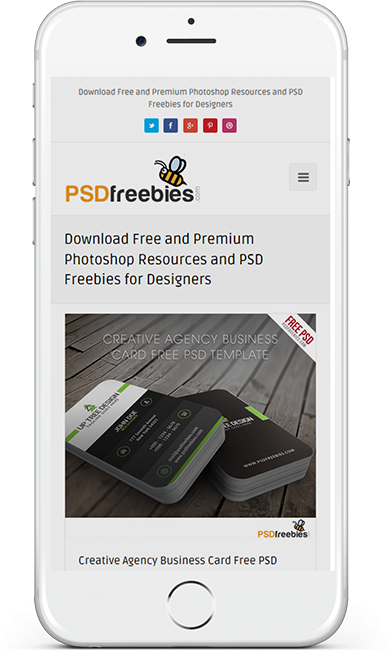
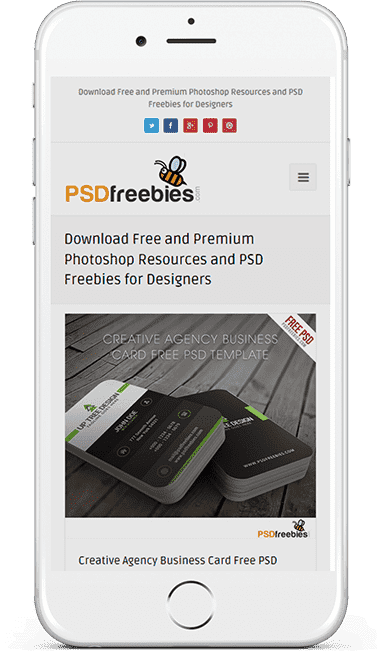
Add retina support

diff --git a/creatives/index.html b/creatives/index.html
@@ -215,7 +215,7 @@
               <div class="col-12 col-md-6 col-xl-3">
                 <div class="blog-posts__item posts-item slide-to-right">
                   <picture>
-                    <source type="image/webp" data-srcset="img/4_-_blog/image_1.webp"/><img class="lazy posts-item__image" src="img/4_-_blog/image_1.lowquality.jpg" data-src="img/4_-_blog/image_1.jpg" alt="blog entry 1"/>
+                    <source type="image/webp" srcset="img/4_-_blog/image_1.lowquality.webp" data-srcset="img/4_-_blog/image_1.webp 1x, img/4_-_blog/image_1@2x.webp 2x, img/4_-_blog/image_1@3x.webp 3x"/><img class="lazy posts-item__image" src="img/4_-_blog/image_1.lowquality.jpg" data-src="img/4_-_blog/image_1.jpg 1x, img/4_-_blog/image_1@2x.jpg 2x, img/4_-_blog/image_1@3x.jpg 3x" alt="blog entry 1"/>
                   </picture>
                   <div class="posts-item__header heading">Fresh Summer Campaign</div>
                   <div class="posts-item__text">
@@ -234,7 +234,7 @@
               <div class="col-12 col-md-6 col-xl-3">
                 <div class="blog-posts__item posts-item slide-to-right">
                   <picture>
-                    <source type="image/webp" data-srcset="img/4_-_blog/image_2.webp"/><img class="lazy posts-item__image" src="img/4_-_blog/image_2.lowquality.jpg" data-src="img/4_-_blog/image_2.jpg" alt="blog entry 2"/>
+                    <source type="image/webp" srcset="img/4_-_blog/image_2.lowquality.webp" data-srcset="img/4_-_blog/image_2.webp 1x, img/4_-_blog/image_2@2x.webp 2x, img/4_-_blog/image_2@3x.webp 3x"/><img class="lazy posts-item__image" src="img/4_-_blog/image_2.lowquality.jpg" data-src="img/4_-_blog/image_2.jpg 1x, img/4_-_blog/image_2@2x.jpg 2x, img/4_-_blog/image_2@3x.jpg 3x" alt="blog entry 2"/>
                   </picture>
                   <div class="posts-item__header heading">Fresh Summer Campaign</div>
                   <div class="posts-item__text">
@@ -253,7 +253,7 @@
               <div class="col-12 col-md-6 col-xl-3">
                 <div class="blog-posts__item posts-item slide-to-left">
                   <picture>
-                    <source type="image/webp" data-srcset="img/4_-_blog/image_3.webp"/><img class="lazy posts-item__image" src="img/4_-_blog/image_3.lowquality.jpg" data-src="img/4_-_blog/image_3.jpg" alt="blog entry 3"/>
+                    <source type="image/webp" srcset="img/4_-_blog/image_3.lowquality.webp" data-srcset="img/4_-_blog/image_3.webp 1x, img/4_-_blog/image_3@2x.webp 2x, img/4_-_blog/image_3@3x.webp 3x"/><img class="lazy posts-item__image" src="img/4_-_blog/image_3.lowquality.jpg" data-src="img/4_-_blog/image_3.jpg 1x, img/4_-_blog/image_3@2x.jpg 2x, img/4_-_blog/image_3@3x.jpg 3x" alt="blog entry 3"/>
                   </picture>
                   <div class="posts-item__header heading">Fresh Summer Campaign</div>
                   <div class="posts-item__text">
@@ -272,7 +272,7 @@
               <div class="col-12 col-md-6 col-xl-3">
                 <div class="blog-posts__item posts-item slide-to-left">
                   <picture>
-                    <source type="image/webp" data-srcset="img/4_-_blog/image_1.webp"/><img class="lazy posts-item__image" src="img/4_-_blog/image_1.lowquality.jpg" data-src="img/4_-_blog/image_1.jpg" alt="blog entry 4"/>
+                    <source type="image/webp" srcset="img/4_-_blog/image_1.lowquality.webp" data-srcset="img/4_-_blog/image_1.webp 1x, img/4_-_blog/image_1@2x.webp 2x, img/4_-_blog/image_1@3x.webp 3x"/><img class="lazy posts-item__image" src="img/4_-_blog/image_1.lowquality.jpg" data-src="img/4_-_blog/image_1.jpg 1x, img/4_-_blog/image_1@2x.jpg 2x, img/4_-_blog/image_1@3x.jpg 3x" alt="blog entry 4"/>
                   </picture>
                   <div class="posts-item__header heading">Fresh Summer Campaign</div>
                   <div class="posts-item__text">
@@ -361,7 +361,7 @@
             </div>
             <div class="col-12 col-lg-6 offset-xl-2 col-xl-5">
               <picture>
-                <source type="image/webp" data-srcset="img/6_-_key/phone.webp"/><img class="lazy key__image slide-to-left" src="img/6_-_key/phone.lowquality.png" data-src="img/6_-_key/phone.png" alt="phone"/>
+                <source type="image/webp" srcset="img/6_-_key/phone.lowquality.webp" data-srcset="img/6_-_key/phone.webp 1x, img/6_-_key/phone@2x.webp 2x, img/6_-_key/phone@3x.webp 3x"/><img class="lazy key__image slide-to-left" src="img/6_-_key/phone.lowquality.png" data-src="img/6_-_key/phone.png 1x, img/6_-_key/phone@2x.png 2x, img/6_-_key/phone@3x.png 3x" alt="phone"/>
               </picture>
             </div>
           </div>
@@ -378,7 +378,7 @@
               <div class="col-12 col-md-6 col-xl-3">
                 <div class="team-persons__card persons-card slide-to-right">
                   <picture>
-                    <source type="image/webp" data-srcset="img/7_-_team/photo_1.webp"/><img class="lazy persons-card__image" src="img/7_-_team/photo_1.lowquality.jpg" data-src="img/7_-_team/photo_1.jpg" alt="team persone 1"/>
+                    <source type="image/webp" srcset="img/7_-_team/photo_1.lowquality.webp" data-srcset="img/7_-_team/photo_1.webp 1x, img/7_-_team/photo_1@2x.webp 2x, img/7_-_team/photo_1@3x.webp 3x"/><img class="lazy persons-card__image" src="img/7_-_team/photo_1.lowquality.jpg" data-src="img/7_-_team/photo_1.jpg 1x, img/7_-_team/photo_1@2x.jpg 2x, img/7_-_team/photo_1@3x.jpg 3x" alt="team persone 1"/>
                   </picture>
                   <div class="persons-card__signature">
                     <div class="persons-card__name heading">JOHN SNOW</div>
@@ -389,7 +389,7 @@
               <div class="col-12 col-md-6 col-xl-3">
                 <div class="team-persons__card persons-card slide-to-right">
                   <picture>
-                    <source type="image/webp" data-srcset="img/7_-_team/photo_2.webp"/><img class="lazy persons-card__image" src="img/7_-_team/photo_2.lowquality.jpg" data-src="img/7_-_team/photo_2.jpg" alt="team persone 2"/>
+                    <source type="image/webp" srcset="img/7_-_team/photo_2.lowquality.webp" data-srcset="img/7_-_team/photo_2.webp 1x, img/7_-_team/photo_2@2x.webp 2x, img/7_-_team/photo_2@3x.webp 3x"/><img class="lazy persons-card__image" src="img/7_-_team/photo_2.lowquality.jpg" data-src="img/7_-_team/photo_2.jpg 1x, img/7_-_team/photo_2@2x.jpg 2x, img/7_-_team/photo_2@3x.jpg 3x" alt="team persone 2"/>
                   </picture>
                   <div class="persons-card__signature">
                     <div class="persons-card__name heading">Mark Castle</div>
@@ -400,7 +400,7 @@
               <div class="col-12 col-md-6 col-xl-3">
                 <div class="team-persons__card persons-card slide-to-left">
                   <picture>
-                    <source type="image/webp" data-srcset="img/7_-_team/photo_3.webp"/><img class="lazy persons-card__image" src="img/7_-_team/photo_3.lowquality.jpg" data-src="img/7_-_team/photo_3.jpg" alt="team persone 3"/>
+                    <source type="image/webp" srcset="img/7_-_team/photo_3.lowquality.webp" data-srcset="img/7_-_team/photo_3.webp 1x, img/7_-_team/photo_3@2x.webp 2x, img/7_-_team/photo_3@3x.webp 3x"/><img class="lazy persons-card__image" src="img/7_-_team/photo_3.lowquality.jpg" data-src="img/7_-_team/photo_3.jpg 1x, img/7_-_team/photo_3@2x.jpg 2x, img/7_-_team/photo_3@3x.jpg 3x" alt="team persone 3"/>
                   </picture>
                   <div class="persons-card__signature">
                     <div class="persons-card__name heading">DAVID SMITH</div>
@@ -411,7 +411,7 @@
               <div class="col-12 col-md-6 col-xl-3">
                 <div class="team-persons__card persons-card slide-to-left">
                   <picture>
-                    <source type="image/webp" data-srcset="img/7_-_team/photo_4.webp"/><img class="lazy persons-card__image" src="img/7_-_team/photo_4.lowquality.jpg" data-src="img/7_-_team/photo_4.jpg" alt="team persone 4"/>
+                    <source type="image/webp" srcset="img/7_-_team/photo_4.lowquality.webp" data-srcset="img/7_-_team/photo_4.webp 1x, img/7_-_team/photo_4@2x.webp 2x, img/7_-_team/photo_4@3x.webp 3x"/><img class="lazy persons-card__image" src="img/7_-_team/photo_4.lowquality.jpg" data-src="img/7_-_team/photo_4.jpg 1x, img/7_-_team/photo_4@2x.jpg 2x, img/7_-_team/photo_4@3x.jpg 3x" alt="team persone 4"/>
                   </picture>
                   <div class="persons-card__signature">
                     <div class="persons-card__name heading">LADY SANSA</div>
